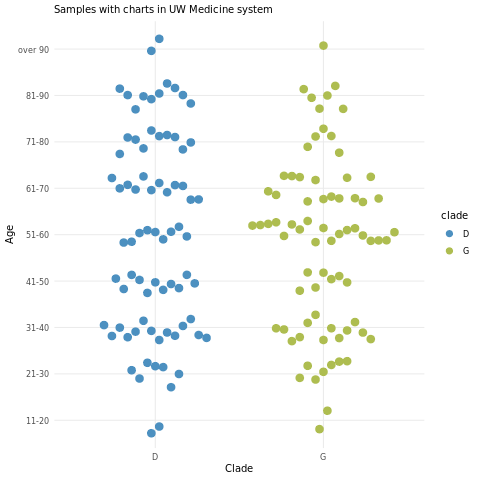
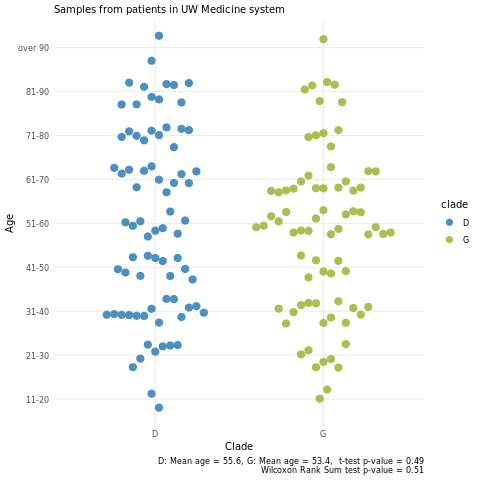
Adds README with data summary; updates figures, analyses

diff --git a/README.md b/README.md
@@ -1,0 +1,117 @@
+# Comparing viral load and clinical outcomes in Washington State by D614G mutation in spike protein of SARS-CoV-2
+
+Since its introduction into humans around the end of November or early December, SARS-CoV-2 has rapidly spread worldwide.
+As the virus replicates, it has fixed mutations at a rate similar to other known RNA viruses.
+So far, there is only evidence for one abundant mutation in the viral spike protein.
+As shown in the screenshot from Nextstrain below, this mutation D614G has arisen multiple times.
+It initially appeared in viruses circulating in Europe but has since spread and is currently present in viruses in every region of the world.
+
+<figure>
+	<a id="nextstrain:D614G"></a>
+	<img style="width:90%;" src="figures/nextstrain_d614g_2020-05-01.png" alt="">
+</figure>
+
+Here, we use SARS-CoV-2 genomes from patients in Washington state to explore whether or not the Spike:D614G mutation has any impact on viral load, the average age of infected individuals, and clinical outcomes.
+We find preliminary evidence of increased replication potential in viruses with the D614G spike protein mutation, but we do not find evidence for a difference in clinical outcomes among patients infected with viruses containing this mutation.  
+
+## SARS-CoV-2 replication fitness assessed by viral load and patient age across D614G spike protein mutation
+
+We analyzed 508 SARS-CoV-2 genomes collected between March 3 and March 24 from patients in Washington.
+These genomes were classified as belonging to clade D if they had an aspartic acid at position 614 in the viral spike protein or as belonging to clade G if they contained a glycine at spike protein position 614.
+318 sequences were classified into clade D, and 190 sequences were classified into clade G.
+Early in March, the majority of circulating viruses belonged to clade D, but clade G viruses dominated later in the month (Fig. 1).
+
+<figure>
+	<a id="fig:clade-time"></a>
+	<img style="width:90%;" src="figures/clade-by-date.png" alt="">
+  <figcaption>Figure 1: Histogram of SARS-CoV-2 samples by date. Samples are classified into clades D or G according to amino acid at position 614 in the spike protein.
+  </figcaption>
+</figure>
+
+We hypothesized that if D614G functionally improved virus replication or transmission, patients infected with viruses containing this mutation would have increased viral loads.
+Using cycle threshold (Ct) from polymerase chain reaction (PCR) assays as a measurement of viral load, we found that patients with clade D viruses had an average Ct of 19.89 while patients with clade G viruses had an average Ct of 18.57.
+This difference in means was statistically significant by a Student's t-test (p-value: 9e-06).
+The Wilcoxon Rank Sum test also identified a significant difference in Ct between clade G and clade D (p-value: 8e-06).
+
+We also hypothesized that if D614G increased viral fitness, the average age of symptomatic patients would decrease.
+With increased viral fitness conferred by the mutation, younger, typically healthier, patients would be more likely to develop symptomatic infections.
+In March, guidelines for testing patients for COVID-19 in Washington included symptoms or exposure to a confirmed COVID-19 infection.
+Therefore, many SARS-CoV-2(+) individuals likely had symptomatic infections and a positive SARS-CoV-2 PCR test is an appropriate proxy for symptomatic infection.
+Among patients in Washington with sequenced SARS-CoV-2 genomes, we found a difference in average infected age across clade.
+For clade D viruses, the average age of infected individuals was 57.4. For clade G viruses, the average age of infected individuals was 50.7.
+These differences in age were significant by both Student's T-test (p-value: 0.0002) and Wilcoxon Rank Sum test (p-value: 0.0003).
+Note: Age data was reported in a decade bin and converted to a continuous variable for analysis.
+
+However, since time is correlated with clade (Fig. 1), we were concerned that the difference in age across clade could be due to time bias.
+The Life Care Center, a nursing home in Kirkland, Washington, had an outbreak of COVID-19 in early March, and this could be biasing the average age of infection in clade D.
+Additionally, in early March, we had only just become aware that SARS-CoV-2 was circulating in the community in Washington, so people presenting for clinical care might have more severe infections and higher Ct's than patients later in the month.
+We compared Ct and age across clade by time and found that early in March, the Ct and age were higher for both clades (Fig. 2). Most of these early infections were by viruses in clade D.
+
+<figure>
+	<a id="fig:age-ct-time"></a>
+	<img style="width:90%;" src="figures/ct-age-by-week.png" alt="">
+  <figcaption>Figure 2: Age and average Ct by clade over time. (A) Violin plots of average Ct by clade over time. Dots represent the mean and bars show two standard deviations from the mean. (B) Horizontal dot plot of age by clade over time. Age was given by decade bin and vertically jittered for visualization.
+  </figcaption>
+</figure>
+
+Therefore, we decided to restrict the analysis to samples collected from March 10 and on as then viruses in both clades were circulating in Washington.
+From samples collected between March 10-24, we found an average Ct of 19.57 for patients with viruses in clade D and an average Ct of 18.52 for patients with viruses in clade G.
+These difference in average Ct were significant by Student's t-test (p-value: 0.005) and Wilcoxon Rank Sum test (p-value: 0.0004).
+In this timeframe, the average age of patients with viruses in clade D was 55.6 and the average age was 50.6 of patients with viruses in clade G.
+By Student's t-test and Wilcoxon Rank Sum test, these differences in age were significant at p-value's 0.006 and 0.009 respectively (Fig. 3).
+
+<figure>
+	<a id="fig:age-ct-clade"></a>
+	<img style="width:90%;" src="figures/ct-age-clade.png" alt="">
+  <figcaption>Figure 3: Average Ct and age by clade from March 10-24. (A) Violin plots of average Ct by clade for samples from patients in Washington between March 10-24. Dots represent the mean and bars show two standard deviations from the mean. (B) Horizontal dot plot of age by clade for samples from patients in Washington between March 10-24. Age was given by decade bin and vertically jittered for visualization.
+  </figcaption>
+</figure>
+
+The lower average Ct and lower age seen in patients with viruses in clade G is consistent with increased replication potential conferred by the Spike: D614G mutation.
+This is preliminary finding that should be followed by laboratory experiments comparing replication potential of these mutations _in vitro_.
+However, increased viral replication could increase in clinical severity, so we examined the clinical records patients from whom the SARS-CoV-2 samples were collected.
+
+## Clinical outcomes across SARS-CoV-2 D614G spike protein mutation
+
+We reviewed 152 charts of patients in the UW Medicine Network from whom sequenced SARS-CoV-2 genomes were sampled.
+Clinical record review was limited to theses patients as the IRB only providing electronic health record access only covered patients in the UW Medicine Network.
+Samples were collected from the UW Medicine patients between March 5 and April 1; 77 of these patients were infected with SARS-CoV-2 from clade D, and 75 patients were infected with the clade G virus.
+Table 1 summarizes the clinical variables pulled during chart review.
+
+Table 1. Clinical characteristics of patients in the UW Medicine Network with SARS-CoV-2 genomes available.
+| Sex        | Age                     | Status         | Care type       | Critical care admission | Active cancer or immunocompromised |
+|------------|-------------------------|----------------|-----------------|-------------------------|------------------------------------|
+| Female: 76 | Range: 11-10 to over 90 | Deceased: 12   | Inpatient: 37   | Yes: 9                  | Yes: 19                            |
+| Male: 76   | Median: 51-60           | Recovered: 140 | Outpatient: 114 | No: 142                 | No: 133                            |
+
+We repeated the analyses performed on all sequences in this subset of patients for whom clinical data was available.
+As shown in Figure 4A, the average Ct for patients with viruses from clade D was 18.85, and the average Ct for patients with viruses from clade G was 18.03.
+This was not a statistically significant difference, according to Student's t-test (p-value: 0.08) or Wilcoxon Rank Sum test (p-value: 0.10).
+Considering the lower p-value's, it is possible that an actual difference in Ct exists, but we do not have enough samples to detect that difference.
+The average age of patients with viruses from clade D was 55.6, and the average age of patients with viruses from clade G was 53.4 (Fig. 4B).
+Again, unlike with all sequences, this difference in age was not significant (Student's t-test: p-value 0.49, Wilcoxon Rank Sum test: p-value 0.51).
+However, these p-values are quite large, so it is unlikely that with increased samples we would detect a difference in age for patients with the Spike: D614G mutation.
+However, the UW Medicine Network and the patients it serves are distinct from other healthcare systems in Washington.
+The patients served by UW Medicine may not represent the larger patient population in Washington.
+Thus, the absence of an age difference in patients infected with viruses from clade G vs. clade Dc clade in this subset of individuals does not necessarily discount the result from a larger dataset.
+
+<figure>
+	<a id="fig:age-ct-clade-clinical"></a>
+	<img style="width:90%;" src="figures/ct-age-clade_clinical.png" alt="">
+  <figcaption>Figure 4: Average Ct and age by clade for patients in UW Medicine Network. (A) Violin plots of average Ct by clade for samples from patients in the UW Medicine system. Dots represent the mean and bars show two standard deviations from the mean. (B) Horizontal dot plot of age by clade for samples from patients in UW Medicine System. Age was given by decade bin and vertically jittered for visualization.
+  </figcaption>
+</figure>
+
+Next, we used Chi-squared tests, or where appropriate the Fisher Exact test, to compare proportions of sex, immunocompromised or active cancer, deceased, inpatient vs. outpatient, and critical care admission across clades.
+There was no statistically significant difference in sex by clade (p-value: 0.10), nor was there a significant difference in proportion of immunocompromised patients or patients with active cancer by clade (p-value: 0.36).  
+These results were expected.
+In immunocompromised individuals the virus already has a comparative advantage with host defenses down, so an increase in viral fitness would be less likely to be observed.
+
+There was also no statistically significant difference in the proportion of deceased (p-value: 0.8) or who required critical care (p-value: 1) across clade.
+Not all patients who die from COVID-19 are placed in critical care however; some patients with other advanced health conditions choose to focus on comfort care rather than pursuing aggressive treatment.
+Therefore, we lumped patients who died from COVID-19 or who required critical care and performed a Chi-Squared test by clade, and still no found no statistically significant difference across clade (p-value: 0.44).
+
+We did find a significant difference in proportion of inpatient vs. outpatient across clade (p-value = 0.03)
+The proportion of inpatient individuals with a virus in clade D was 0.32, and the proportion of inpatient individuals with a virus in clade G was 0.16.
+Clade D definitely precedes clade G in time, and it's possible that physicians had a lower clinical threshold for hospitalization early in the outbreak as compared to later, which would explain this difference.
+Restricting the data to samples to collected between March 10-24, the same time frame used to analyzed all sequences data, we found no significant difference in the proportion inpatient vs. outpatient by clade (p-value: 0.56).
